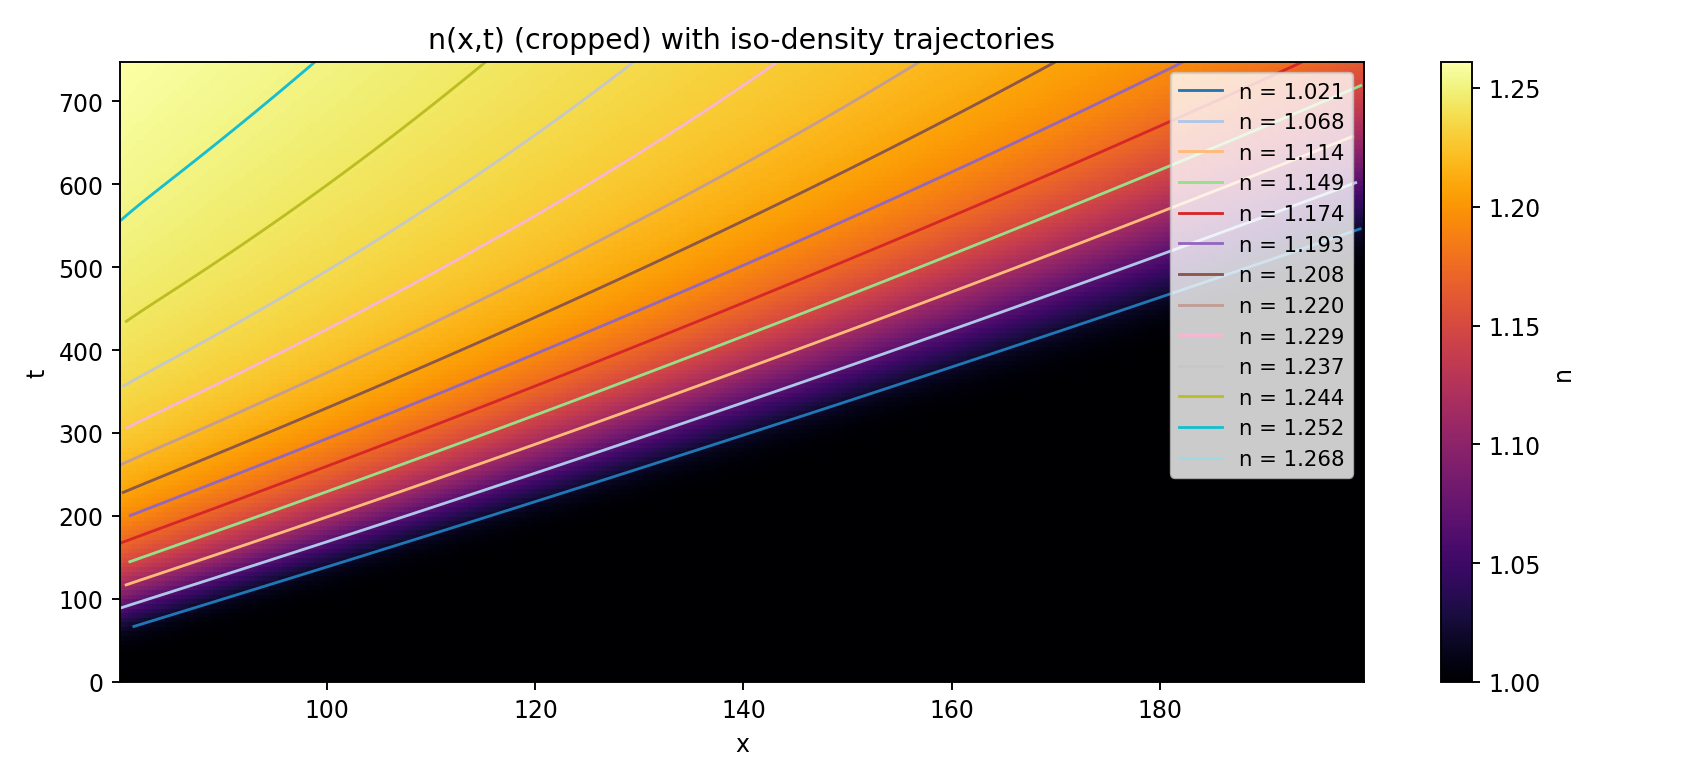
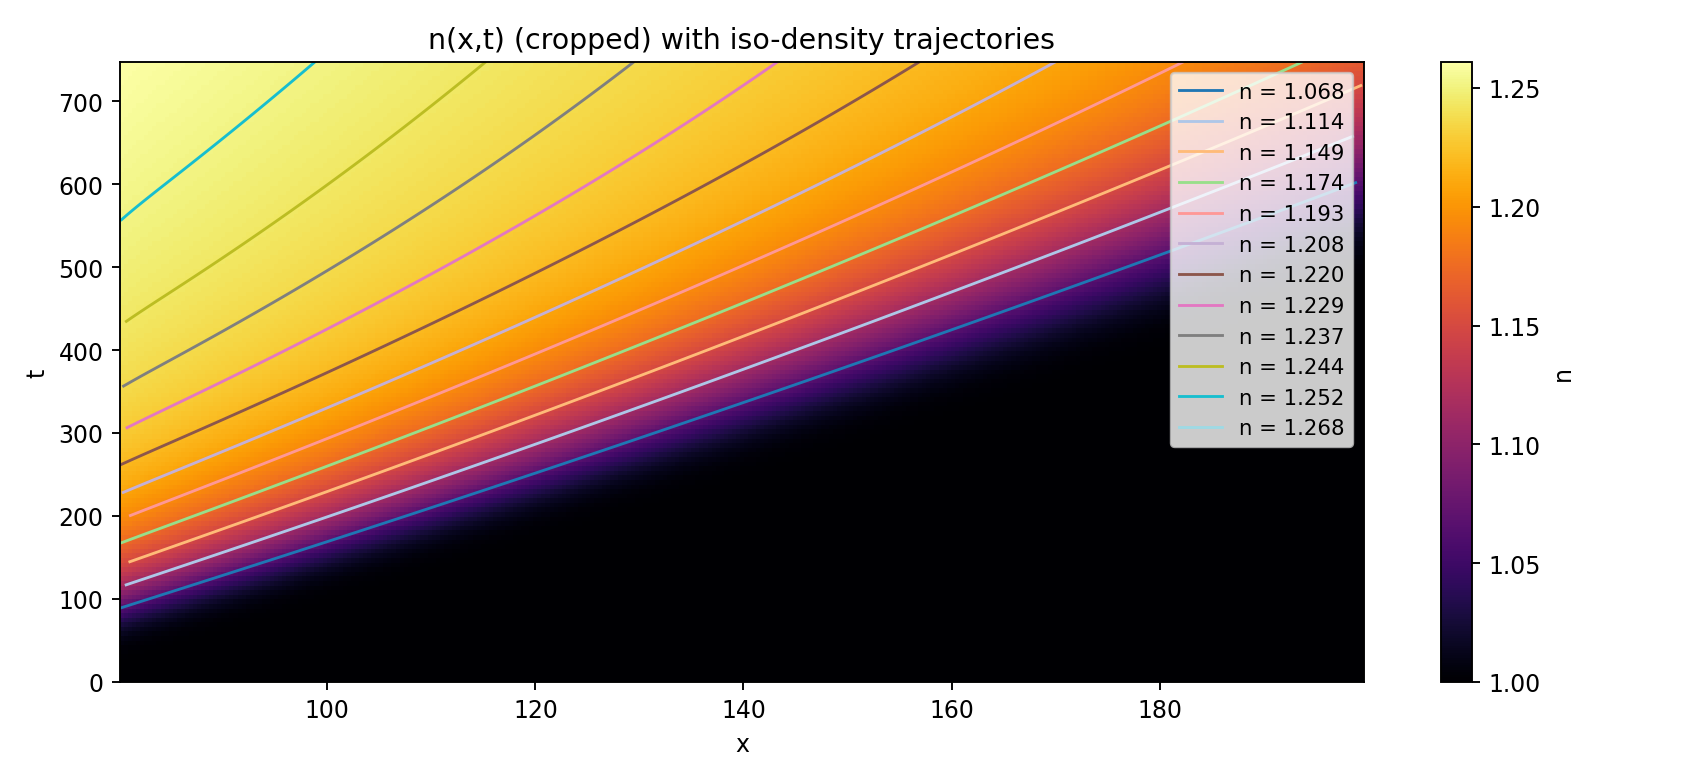
Implementing least-squares for segment speeds and adjusted quantile levels

diff --git a/mass injection/peak_velocity/peak velocity.py b/mass injection/peak_velocity/peak velocity.py
@@ -283,20 +283,67 @@ def plot_spacetime_with_tracks(n_sub, t_sub, x_sub, levels, tracks, tag="traj"):
     print(f"[saved] {fname}")
 
 def plot_velocities(levels, tracks, tag="traj"):
-    plt.figure(figsize=(10.0, 4.0))
+    vmin = 1e-6
+    acc_thresh = 5e-3
+    min_pts = 8
+
+    plt.figure(figsize=(10.0, 4.4))
     colors = plt.cm.tab20(np.linspace(0, 1, len(levels)))
+
     for i, lev in enumerate(levels):
-        t_curve = tracks[lev]["t_grid"]
-        v = tracks[lev]["v_inst"]
-        v_mean = np.nanmean(v)
-        plt.plot(t_curve, v, color=colors[i], lw=2.0,
-                 label=rf"$n={lev:.3f}, \langle v \rangle\approx {v_mean:.3f}$")
-    plt.axhline(par.u_d, color="k", ls="--", alpha=0.6, label="drift u_d")
-    plt.xlabel("t"); plt.ylabel("trajectory speed  dx/dt")
-    plt.title("Instantaneous speeds of iso-density trajectories (cropped window)")
+        t = tracks[lev]["t_grid"]
+        x_unw = tracks[lev]["x_unwrap"].astype(float)
+
+        good0 = ~np.isnan(x_unw)
+        if good0.sum() < min_pts:
+            continue
+
+        v = np.gradient(x_unw, t)
+        a = np.gradient(v, t)
+
+        good = good0 & (v > vmin) & (np.abs(a) < acc_thresh)
+
+        plt.plot(t[good0], v[good0], color=colors[i], lw=1.0, alpha=0.25)
+
+        idx = np.flatnonzero(np.diff(good.astype(int)))
+        seg_starts = np.r_[0, idx + 1]
+        seg_ends   = np.r_[idx, len(good)-1]
+
+        for s, e in zip(seg_starts, seg_ends):
+            if not good[s]:
+                continue
+            if (e - s + 1) < min_pts:
+                continue
+
+            t_seg = t[s:e+1]
+            x_seg = x_unw[s:e+1]
+
+            coeff = np.polyfit(t_seg, x_seg, 1)
+            v_ls = coeff[0]
+
+            plt.hlines(v_ls, t_seg[0], t_seg[-1],
+                       color=colors[i], lw=2.4, alpha=0.95)
+
+        vls_list = []
+        for s, e in zip(seg_starts, seg_ends):
+            if not good[s]: continue
+            if (e - s + 1) < min_pts: continue
+            t_seg = t[s:e+1]; x_seg = x_unw[s:e+1]
+            vls_list.append(np.polyfit(t_seg, x_seg, 1)[0])
+        if len(vls_list) > 0:
+            v_med = float(np.median(vls_list))
+            plt.plot([], [], color=colors[i], lw=2.4,
+                     label=rf"$n={lev:.3f},\, v_{{\rm LS}}\!\approx\!{v_med:.3f}$")
+        else:
+            plt.plot([], [], color=colors[i], lw=2.4,
+                     label=rf"$n={lev:.3f},\, v_{{\rm LS}}\ {{\rm n/a}}$")
+
+    plt.axhline(par.u_d, color="k", ls="--", alpha=0.6, label="drift $u_d$")
+    plt.xlabel("t"); plt.ylabel("trajectory speed  $dx/dt$")
+    plt.title("Least-squares segment speeds of iso-density trajectories")
     plt.legend(ncol=2, fontsize=9, frameon=False)
     os.makedirs(par.outdir, exist_ok=True)
-    fname = f"{par.outdir}/velocities_iso_density_{tag}.png"
+    fname = f"{par.outdir}/velocities_iso_density_LS_{tag}.png"
     plt.tight_layout(); plt.savefig(fname, dpi=170); plt.close()
     print(f"[saved] {fname}")
 
@@ -311,7 +358,7 @@ if __name__ == "__main__":
 
     x_sub_preview, t_sub_preview, n_sub_preview = crop_xt(n_t, t, x, x_min=60.0, x_max=200.0, t_max=750.0)
 
-    qs = np.quantile(n_sub_preview, np.arange(0.35, 1, 0.05))
+    qs = np.quantile(n_sub_preview, np.arange(0.4, 1.0, 0.05))
     levels = [float(q) for q in qs]
     print("[levels] chosen n levels:", ", ".join(f"{lv:.6f}" for lv in levels))
 
